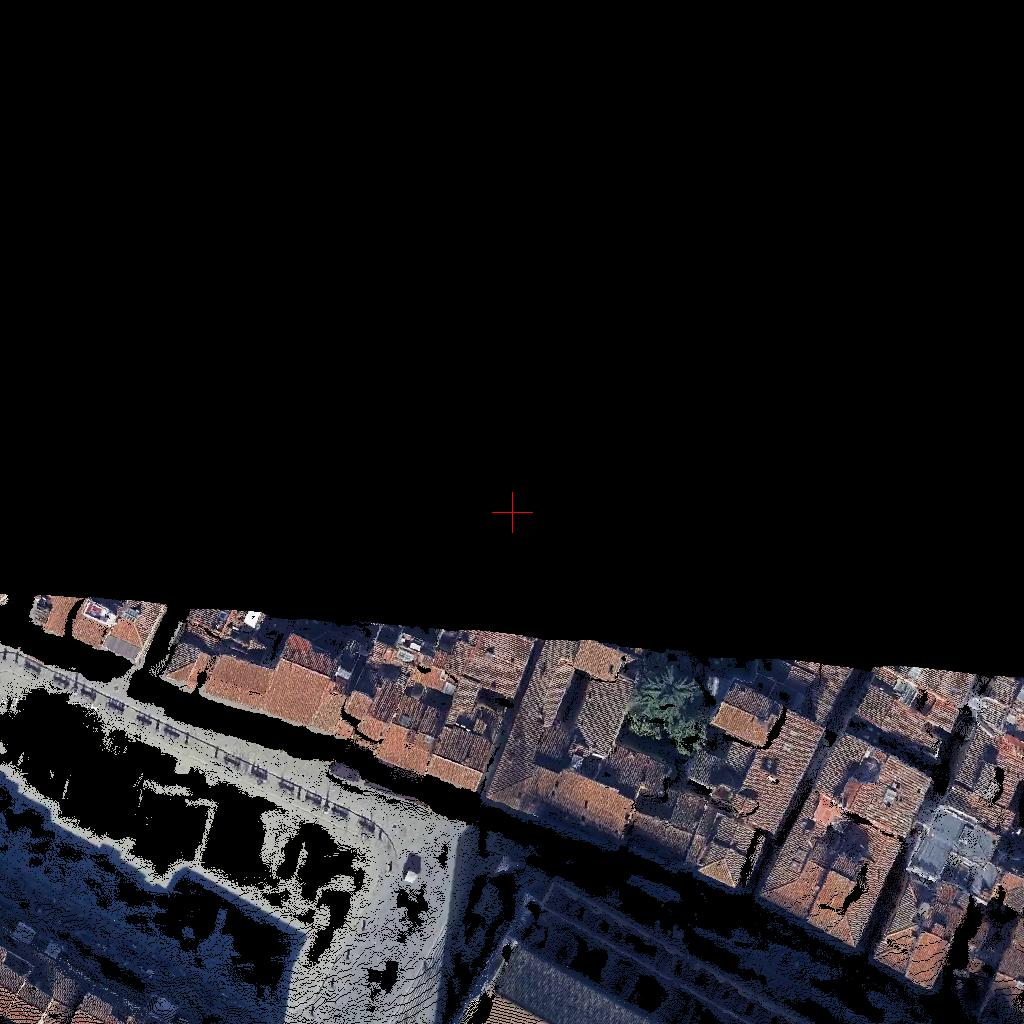
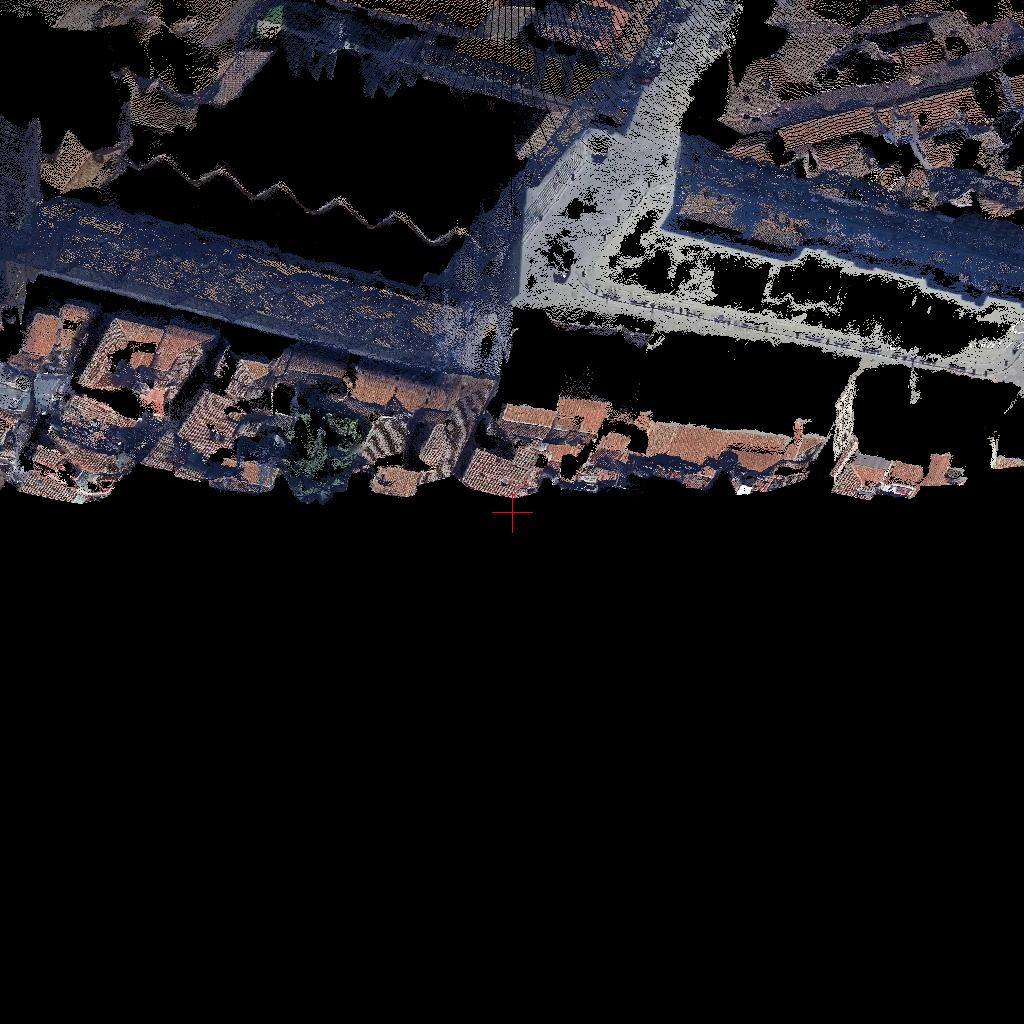
feat: add drone data and fix extrincics

diff --git a/test_bev.py b/test_bev.py
@@ -107,75 +107,88 @@ def make_xz_bev(xyz_world, rgb_world, cam_center_world,
 # -------------- 批量处理函数 --------------
 def process_single_image(rgb_path, output_dir):
     """处理单个图像"""
-    try:
-        # 构建相关文件路径
-        base_name = os.path.splitext(os.path.splitext(rgb_path)[0])[0]
-        depth_path = base_name + '.jpeg.exr'
-        npz_path = base_name + '.jpeg.npz'
-        
-        if not (os.path.exists(depth_path) and os.path.exists(npz_path)):
-            print(f"警告: {os.path.basename(rgb_path)} 缺少深度图或相机参数, 已跳过。")
-            return False
-        
-        # 加载数据
-        rgb, h, w = load_rgb(rgb_path)
-        depth = load_depth_exr(depth_path)
-        K_np, T_cw_zup_np = load_camera_params(npz_path) # 这是Z轴朝上的外参
-        
-        # 【核心修改】定义从 "Z轴朝上" 到 "Y轴朝下" 的世界坐标系变换矩阵
-        # 原始坐标系(A): X-?, Y-?, Z-Up
-        # 目标坐标系(B): X->X, Y-> -Z, Z->Y  (即绕X轴顺时针旋转90度)
-        T_zup_to_ydown = torch.tensor([
-            [1, 0, 0, 0],
-            [0, 0, -1, 0],
-            [0, 1, 0, 0],
-            [0, 0, 0, 1]
-        ], dtype=torch.float32)
 
-        # 将相机外参从Z-up世界变换到Y-down世界
-        T_cw_ydown = T_zup_to_ydown @ torch.tensor(T_cw_zup_np, dtype=torch.float32)
-        
-        print(f'处理: {os.path.basename(rgb_path)}')
-        
-        # 反投影到Z-up世界坐标系
-        xyz_w_zup, rgb_w = backproject_to_world(rgb, depth, K_np, torch.tensor(T_cw_zup_np, dtype=torch.float32))
+    # 构建相关文件路径
+    base_name = os.path.splitext(os.path.splitext(rgb_path)[0])[0]
+    depth_path = base_name + '.jpeg.exr'
+    
+    # 加载数据
+    rgb, h, w = load_rgb(rgb_path)
+    if 'grd_drone_pair' in depth_path:
+        depth_path = depth_path.replace('grd_drone_pair', 'drone')
+        depth_name = depth_path.split('/')[-1]
+        grd_name = depth_name.split('_')[1] + '_'
+        depth_path = depth_path.replace(grd_name, '')
+    depth = load_depth_exr(depth_path)
+    npz_path = depth_path.replace('.exr', '.npz')
+    K_np, T_cw_zup_np = load_camera_params(npz_path) # 这是Z轴朝上的外参
+    
+    # 【核心修改】定义从 "Z轴朝上" 到 "Y轴朝下" 的世界坐标系变换矩阵
+    # 原始坐标系(A): X-?, Y-?, Z-Up
+    # 目标坐标系(B): X->X, Y-> -Z, Z->Y  (即绕X轴顺时针旋转90度)
+    T_zup_to_ydown = torch.tensor([
+        [1, 0, 0, 0],
+        [0, 0, -1, 0],
+        [0, 1, 0, 0],
+        [0, 0, 0, 1]
+    ], dtype=torch.float32)
 
-        # 【核心修改】将所有世界点从Z-up变换到Y-down
-        xyz_w_zup_h = torch.cat([xyz_w_zup, torch.ones(xyz_w_zup.shape[0], 1, device=xyz_w_zup.device)], dim=-1)
-        xyz_w_ydown_h = xyz_w_zup_h @ T_zup_to_ydown.T
-        xyz_w_ydown = xyz_w_ydown_h[:, :3]
+    # 将相机外参从Z-up世界变换到Y-down世界
+    T_cw_ydown = T_zup_to_ydown @ torch.tensor(T_cw_zup_np, dtype=torch.float32)
+    
+    print(f'处理: {os.path.basename(rgb_path)}')
+    
+    # 反投影到Z-up世界坐标系
+    xyz_w_zup, rgb_w = backproject_to_world(rgb, depth, K_np, torch.tensor(T_cw_zup_np, dtype=torch.float32))
 
-        print(f'有效世界点: {xyz_w_ydown.shape[0]}')
-        
-        # 生成BEV图像 (在新的Y-down坐标系下)
-        cam_center_ydown = T_cw_ydown[:3, 3]  # 新坐标系下的相机光心
-        bev_img = make_xz_bev(xyz_w_ydown, rgb_w, cam_center_ydown,
-                              METER_PER_PIXEL, GROUND_Y_RANGE, RADIUS_M)
-        
-        # 在BEV图像中心标记相机位置
-        cx = cy = bev_img.shape[0] // 2
-        mark_size = int(bev_img.shape[0] * 0.02) # 标记大小为图像尺寸的2%
-        bev_img[cy-mark_size:cy+mark_size+1, cx] = [255, 0, 0]
-        bev_img[cy, cx-mark_size:cx+mark_size+1] = [255, 0, 0]
+    # 【核心修改】将所有世界点从Z-up变换到Y-down
+    xyz_w_zup_h = torch.cat([xyz_w_zup, torch.ones(xyz_w_zup.shape[0], 1, device=xyz_w_zup.device)], dim=-1)
+    xyz_w_ydown_h = xyz_w_zup_h @ T_zup_to_ydown.T
+    xyz_w_ydown = xyz_w_ydown_h[:, :3]
 
-        # 保存BEV图像
-        rgb_name = rgb_path.split('/')[-1]
-        bev_save_path = os.path.join(output_dir, rgb_name)
-        Image.fromarray(bev_img).save(bev_save_path)
-        print(f'BEV保存至: {bev_save_path}')
+    print(f'有效世界点: {xyz_w_ydown.shape[0]}')
+    
+    # 生成BEV图像 (在新的Y-down坐标系下)
+    cam_center_ydown = T_cw_ydown[:3, 3]  # 新坐标系下的相机光心
+    bev_img = make_xz_bev(xyz_w_ydown, rgb_w, cam_center_ydown,
+                            METER_PER_PIXEL, GROUND_Y_RANGE, RADIUS_M)
+    
+    # 在BEV图像中心标记相机位置
+    cx = cy = bev_img.shape[0] // 2
+    mark_size = int(bev_img.shape[0] * 0.02) # 标记大小为图像尺寸的2%
+    bev_img[cy-mark_size:cy+mark_size+1, cx] = [255, 0, 0]
+    bev_img[cy, cx-mark_size:cx+mark_size+1] = [255, 0, 0]
+
+    # 在BEV图像中心画一个尺寸为图像尺寸40%的红色边框
+    box_size = int(bev_img.shape[0] * 0.4)  # 边框尺寸为图像尺寸的40%
+    half_box = box_size // 2
+    # 计算边框的坐标范围
+    y1, y2 = cy - half_box, cy + half_box
+    x1, x2 = cx - half_box, cx + half_box
+
+    # 确保坐标在图像范围内
+    y1, x1 = max(0, y1), max(0, x1)
+    y2, x2 = min(bev_img.shape[0], y2), min(bev_img.shape[1], x2)
+
+    # 画红色边框（上、下、左、右四条边）
+    bev_img[y1:y1+3, x1:x2] = [255, 0, 0]      # 上边框
+    bev_img[y2-3:y2, x1:x2] = [255, 0, 0]      # 下边框
+    bev_img[y1:y2, x1:x1+3] = [255, 0, 0]      # 左边框
+    bev_img[y1:y2, x2-3:x2] = [255, 0, 0]      # 右边框
+
+    # 保存BEV图像
+    rgb_name = rgb_path.split('/')[-1]
+    bev_save_path = os.path.join(output_dir, rgb_name)
+    Image.fromarray(bev_img).save(bev_save_path)
+    print(f'BEV保存至: {bev_save_path}')
+    
+    return True
         
-        return True
-        
-    except Exception as e:
-        import traceback
-        print(f"处理图像 {rgb_path} 时出错: {str(e)}")
-        traceback.print_exc()
-        return False
 
 def batch_process_bev():        
     os.makedirs(OUTPUT_ROOT, exist_ok=True)
     
-    rgb_path = '/data/zhongyao/aer-grd-map/0341/drone/0341_431.jpeg.jpg'
+    rgb_path = '/data/zhongyao/aer-grd-map/0070/grd_drone_pair/0070_003_228.jpg'
     process_single_image(rgb_path, OUTPUT_ROOT)
     
     print("处理完成! 成功生成BEV图像。")

diff --git a/src/dataset/dataset_aer_grd_drone.py b/src/dataset/dataset_aer_grd_drone.py
@@ -52,10 +52,17 @@ SatMap_process_sidelength = 512 # 0.2 m per pixel
 
 # 将 COLMAP 坐标系 (Z向上) 转换为 OpenCV 坐标系 (Z向前)
 # 转换矩阵: 绕 X 轴旋转 π，将 Y 轴翻转，Z 轴从向上变为向前
+# colmap_to_opencv = np.array([
+#     [1, 0, 0, 0],
+#     [0, 0, -1, 0],
+#     [0, 1, 0, 0],
+#     [0, 0, 0, 1]
+# ], dtype=np.float32)
+
 colmap_to_opencv = np.array([
-    [1, 0, 0, 0],
+    [0, -1, 0, 0],
     [0, 0, -1, 0],
-    [0, 1, 0, 0],
+    [1, 0, 0, 0],
     [0, 0, 0, 1]
 ], dtype=np.float32)
 
@@ -92,7 +99,7 @@ class DatasetAerGrdDrone(IterableDataset):
                 lines = f.readlines()
                 self.file_name = [l.rstrip() for l in lines][:int(len(lines) * data_amount)]
         else:
-            with open('/data/zhongyao/aer-grd-map/test1_files.txt', 'r') as f:
+            with open('/data/zhongyao/aer-grd-map/test_files.txt', 'r') as f:
                 lines = f.readlines()
                 self.file_name = [l.rstrip() for l in lines][:int(len(lines) * data_amount)]
         self.final_h = self.cfg.input_image_shape[0] * 4   # 1024
@@ -149,21 +156,18 @@ class DatasetAerGrdDrone(IterableDataset):
         for line in self.file_name:
 
             if self.stage in ("train"):
-                sub, branch, name = self._parse_name(line)
+                test_line = line.split(' ')
+                grd_path, drone_path, sat_path = test_line[0], test_line[1], test_line[2]
                 gt_shift_x = np.random.uniform(-1, 1)  # --> right as positive, parallel to the heading direction
                 gt_shift_y = np.random.uniform(-1, 1)  # --> up as positive, vertical to the heading direction
                 theta = np.random.uniform(-1, 1)
             else:
                 test_line = line.split(' ')
-                line, gt_shift_x, gt_shift_y, theta = test_line[0], float(test_line[1]), float(test_line[2]), float(test_line[3])
-                sub, branch, name = self._parse_name(line)
+                grd_path, drone_path, sat_path, gt_shift_x, gt_shift_y, theta = test_line[0], test_line[1], test_line[2], float(test_line[3]), float(test_line[4]), float(test_line[5])
 
-            # 1. 地面图像
-            grd_path = line
+            # 1. 读取图像
             grd_left_feat = Image.open(grd_path).convert('RGB')
-            # drone_path = grd_path.replace('ground', 'drone')
-            # drone_img = Image.open(drone_path).convert('RGB')
-            sat_path = self._satellite_path(sub, branch, name)
+            drone_left_feat = Image.open(drone_path).convert('RGB')
             sat_img = Image.open(sat_path).convert('RGB')
 
             # 对卫星图进行4倍下采样
@@ -171,7 +175,7 @@ class DatasetAerGrdDrone(IterableDataset):
             sat_img = sat_img.resize(new_size, Image.BILINEAR)
 
             # 2. 内参与位姿
-            npz_path = line.replace('.jpeg.jpg', '.jpeg.npz')
+            npz_path = grd_path.replace('.jpeg.jpg', '.jpeg.npz')
             npz = np.load(npz_path)
             K = torch.from_numpy(npz['intrinsics'].astype(np.float32))  # (3,3)
             fx = K[0, 0] * GrdImg_W / GrdOriImg_W / self.final_w
@@ -219,24 +223,30 @@ class DatasetAerGrdDrone(IterableDataset):
 
             if self.grdimage_transform is not None:
                 grd_left_feat = self.grdimage_transform(grd_left_feat).unsqueeze(0)
+                drone_left_feat = self.grdimage_transform(drone_left_feat).unsqueeze(0)
 
             extrinsics = torch.eye(4, dtype=torch.float32)
             # 添加 batch 维度以适应 F.interpolate，然后移除
-            grd_img = F.interpolate(grd_left_feat, size=self.cfg.input_image_shape, mode='bilinear', align_corners=False)
 
-            mask = rearrange(grd_img, 'v c h w -> v h w c').any(dim=-1).float()
+            grd_img = F.interpolate(grd_left_feat, size=self.cfg.input_image_shape, mode='bilinear', align_corners=False)
+            drone_img = F.interpolate(drone_left_feat, size=self.cfg.input_image_shape, mode='bilinear', align_corners=False)
+            
+            grd_mask = rearrange(grd_img, 'v c h w -> v h w c').any(dim=-1).float()
+            drone_mask = rearrange(drone_img, 'v c h w -> v h w c').any(dim=-1).float()
+
             example = {
                 "context": {
                     "extrinsics": torch.stack((cam2world, cam2world), dim=0),
                     "intrinsics": torch.stack((left_camera_k, left_camera_k), dim=0),
                     "image": torch.cat((grd_img, grd_img), dim=0),
-                    "mask": torch.cat((mask, mask), dim=0),
+                    "mask": torch.cat((grd_mask, grd_mask), dim=0),
                     "feat_image": torch.cat((grd_left_feat, grd_left_feat), dim=0),
                     "near": self.get_bound("near", 1),
                     "far": self.get_bound("far", 1),
                     "index": torch.tensor([0], dtype=torch.int64),
                     "overlap": torch.tensor([0.5], dtype=torch.float32),
                     "grd_path": grd_path,
+                    "drone_path": drone_path,
                 },
                 "target": {
                     "extrinsics": extrinsics[None],

diff --git a/src/model/model_wrapper.py b/src/model/model_wrapper.py
@@ -140,6 +140,7 @@ class ModelWrapper(LightningModule):
         self.data_shim = get_data_shim(self.encoder)
         self.losses = nn.ModuleList(losses)
         self.dino_feat = DINO()
+        self.dino_feat.eval()
         self.dpt = DPT(self.dino_feat.feat_dim)
 
         self.meters_per_pixel = train_cfg.meter_per_pixel * 4  # downsampled by 4
@@ -223,10 +224,9 @@ class ModelWrapper(LightningModule):
         crop_W = int(A - 20 * 3 / meter_per_pixel)
         g2s_feat = TF.center_crop(grd2sat_feature, [crop_H, crop_W])
         g2s_conf = TF.center_crop(grd2sat_confidence, [crop_H, crop_W])
-
+        # grd2sat_color = TF.center_crop(grd2sat_color, [crop_H, crop_W])
         rgb_bev = grd2sat_color[0]
         test_img = to_pil_image(rgb_bev.clamp(min=0,max=1))
-        test_img = test_img.rotate(90, expand=True)
         test_img.save('splat_bev.png')
 
         # vis_bev(batch, gaussians, output)
@@ -413,6 +413,8 @@ class ModelWrapper(LightningModule):
             gt_shift_u: 真实的u坐标（米）
             gt_shift_v: 真实的v坐标（米）
         """
+        # write_ply(gaussians.means[0].cpu().detach().numpy(), gaussians.harmonics[0,:,:,0].cpu().detach().numpy())
+
         try:
             # 获取卫星图像
             sat_img = batch['sat']['sat'][0]  # 取第一个样本的卫星图像
@@ -522,8 +524,10 @@ class ModelWrapper(LightningModule):
             ###### 保存输入地面图 ######
             rgb_input = (batch['context']["image"][0,0] + 1) / 2
             test_img = to_pil_image(rgb_input.clamp(min=0,max=1))
-            test_img.save(os.path.join(save_dir, 'input.png'))
-
+            test_img.save(os.path.join(save_dir, 'input1.png'))
+            rgb_input = (batch['context']["image"][0,1] + 1) / 2
+            test_img = to_pil_image(rgb_input.clamp(min=0,max=1))
+            test_img.save(os.path.join(save_dir, 'input2.png'))
             ###### 保存Bev投影地面图 ######
             point_color = (rearrange(batch["context"]["image"], 'b v c h w -> b (v h w) c') + 1) / 2
             point_clouds = gaussians.means
@@ -535,8 +539,6 @@ class ModelWrapper(LightningModule):
             rgb_bev = grd2sat_direct_color[0]
             test_img = to_pil_image(rgb_bev.clamp(min=0,max=1))
 
-            # 逆时针旋转90度
-            test_img = test_img.rotate(90, expand=True)
             # 创建一个可以在图像上绘图的对象
             draw = ImageDraw.Draw(test_img)
             # 绘制一个红色圆形作为中心点

diff --git a/src/model/encoder/encoder_noposplat.py b/src/model/encoder/encoder_noposplat.py
@@ -21,7 +21,6 @@ from .common.gaussian_adapter import GaussianAdapter, GaussianAdapterCfg, Unifie
 from .encoder import Encoder
 from .visualization.encoder_visualizer_epipolar_cfg import EncoderVisualizerEpipolarCfg
 
-
 inf = float('inf')
 debug = False
 
@@ -207,8 +206,8 @@ class EncoderNoPoSplat(Encoder[EncoderNoPoSplatCfg]):
         pts3d2 = rearrange(pts3d2, "b h w d -> b (h w) d")
         pts_all = torch.stack((pts3d1, pts3d2), dim=1)
 
-        min_depth = torch.min(pts_all.masked_fill(~mask.squeeze(-1).bool(), float('inf'))[..., 2], dim=-1).values.clamp(min=0)
-        pts_all[..., 2] = pts_all[..., 2] - min_depth[:,:,None]
+        # min_depth = torch.min(pts_all.masked_fill(~mask.squeeze(-1).bool(), float('inf'))[..., 2], dim=-1).values.clamp(min=0)
+        # pts_all[..., 2] = pts_all[..., 2] - min_depth[:,:,None]
         pts_all = pts_all.unsqueeze(-2)  # for cfg.num_surfaces
         pts_all = pts_all * mask
 
@@ -219,7 +218,6 @@ class EncoderNoPoSplat(Encoder[EncoderNoPoSplatCfg]):
         rgb_all = torch.stack((rgb1, rgb2), dim=1)
         rgb_all = (rgb_all.unsqueeze(-2) + 1.0) / 2.0
         rgb_all = rgb_all * mask
-
         depths = pts_all[..., -1].unsqueeze(-1)
 
         gaussians = torch.stack([GS_res1, GS_res2], dim=1)
